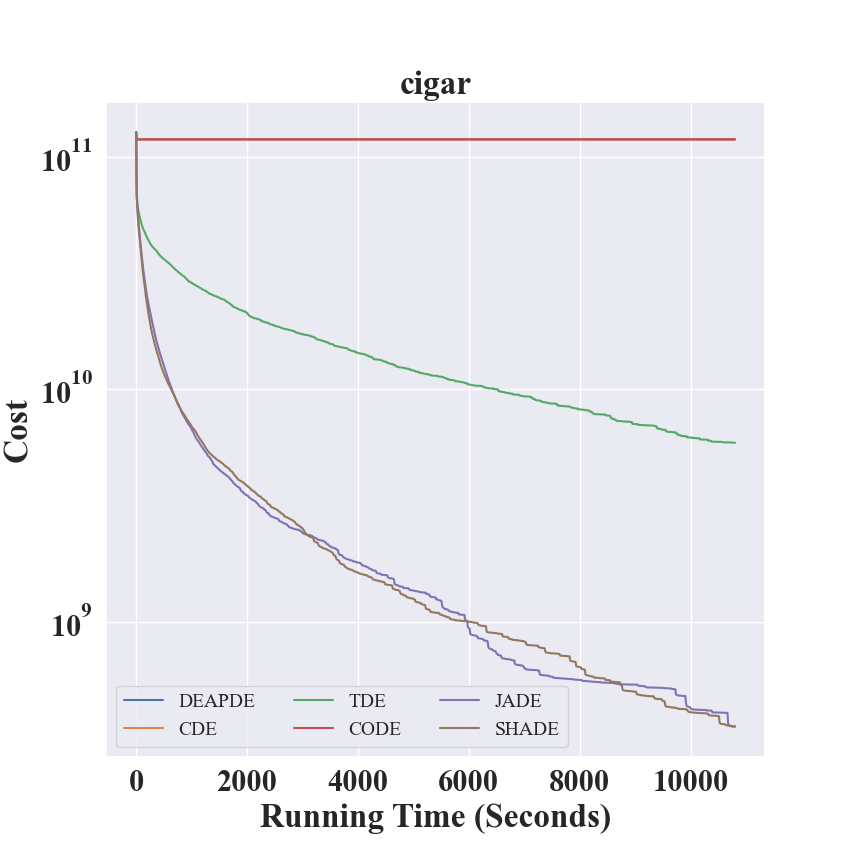
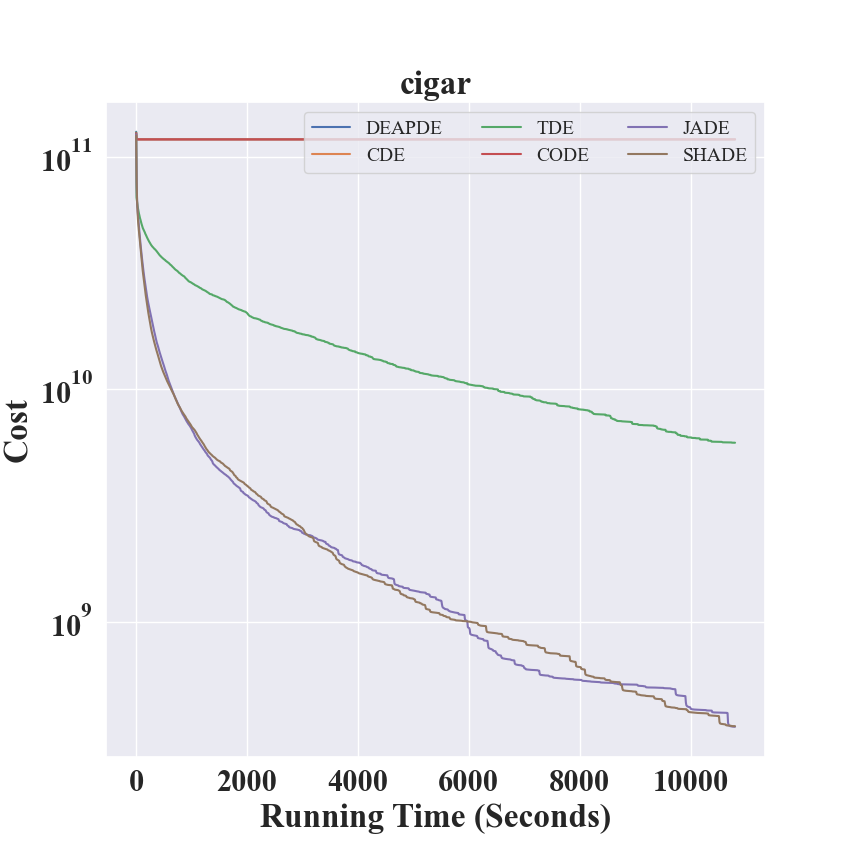
Update compare_efficiency_de.py

diff --git a/docs/pypop7_benchmarks_lso/single-core/compare_efficiency_de.py b/docs/pypop7_benchmarks_lso/single-core/compare_efficiency_de.py
@@ -69,7 +69,7 @@ if __name__ == '__main__':
         plt.title(f, fontsize=24, fontweight='bold')
         plt.xticks(fontsize=22, fontweight='bold')
         plt.yticks(fontsize=22, fontweight='bold')
-        plt.legend(loc='best', ncol=3, fontsize=14)
+        plt.legend(loc='upper right', ncol=3, fontsize=14)
         plt.rcParams['font.family'] = 'Times New Roman'
         plt.savefig('./figures/DEs-' + f + '.png', format='png')
         plt.show()
